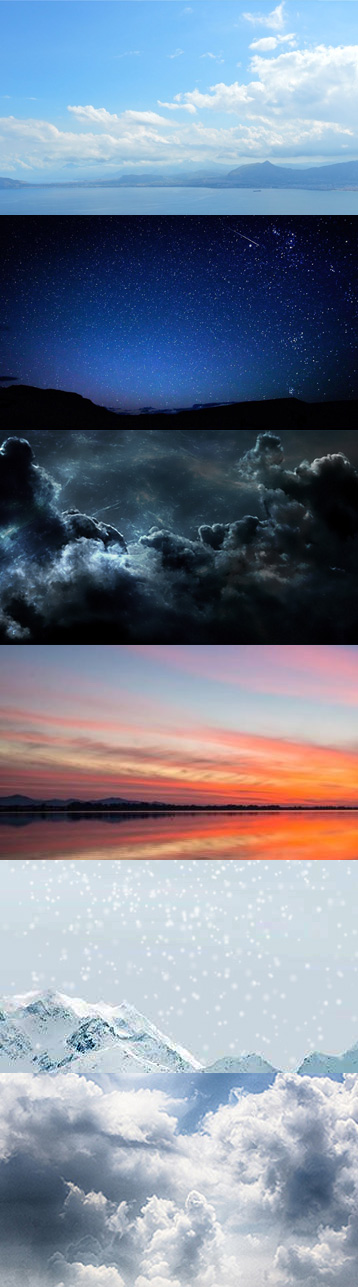
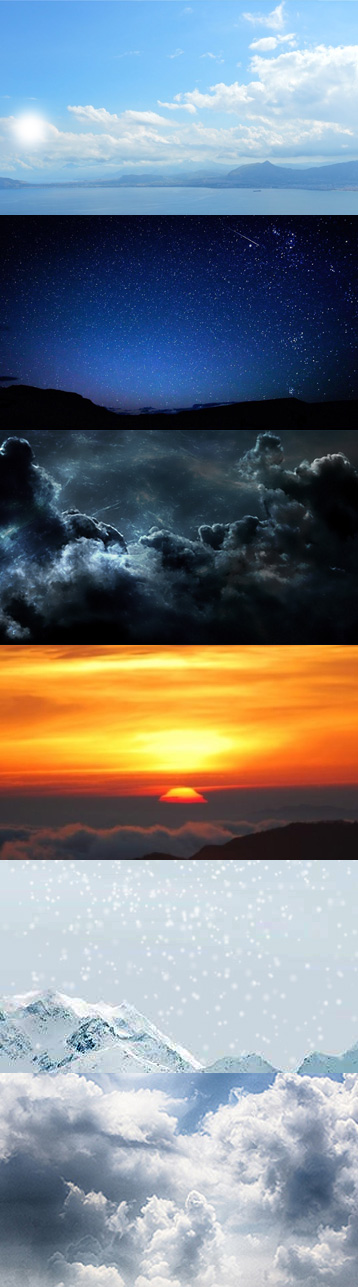
up

Changed region(s): [[0.0, 0.4973, 1.0, 0.6838], [0.0307, 0.0622, 0.1536, 0.1243]]

diff --git a/client_v2/src/scss/_dashboard.scss b/client_v2/src/scss/_dashboard.scss
@@ -152,8 +152,8 @@
 .tg-input {
     position: relative;
     margin-bottom: 6px;
-    margin-left: 3px;
-    margin-right: 0px;
+    margin-left: 0;
+    margin-right: 0;
     display: flex;
     flex-direction: row;
     height: 25px;
@@ -216,6 +216,10 @@
 
         .tg-extraboard,.tg-character-avmenu, .tg-characteravatar, .tg-infocharname, .tg-extrabars{
             display: none!important;
+        }
+        
+        .tg-character {
+            padding:3px 0;
         }
 
         .tg-meterbar {

diff --git a/client_v2/src/js/modules/client.js b/client_v2/src/js/modules/client.js
@@ -1054,11 +1054,11 @@ export default class TgGui {
 
         /*  5: alba 
             o: mattina
-
+            i: tramonto
             t: neve
             q: mattina nuvolosa
         */
-        let skypos = ['o', 'N', 'w', '5', 't', 'q'];
+        let skypos = ['o', 'N', 'w', 'i', 't', 'q'];
 
         console.log('%c' + sky , 'background: red; color: #fff');
         console.log(skypos.indexOf(sky));

diff --git a/client_v2/src/scss/_right_sidebar.scss b/client_v2/src/scss/_right_sidebar.scss
@@ -104,13 +104,15 @@
 
     @include media-breakpoint-down(xl) {
         .tg-sky {
+            
             height: 162px;
             top: 10px;
             left: 24px;
             right: 10px;
             z-index: 2;
+            position: absolute;
+            
         }
-        
         .tg-map {
             width: 222px;
             padding-left:35px;
